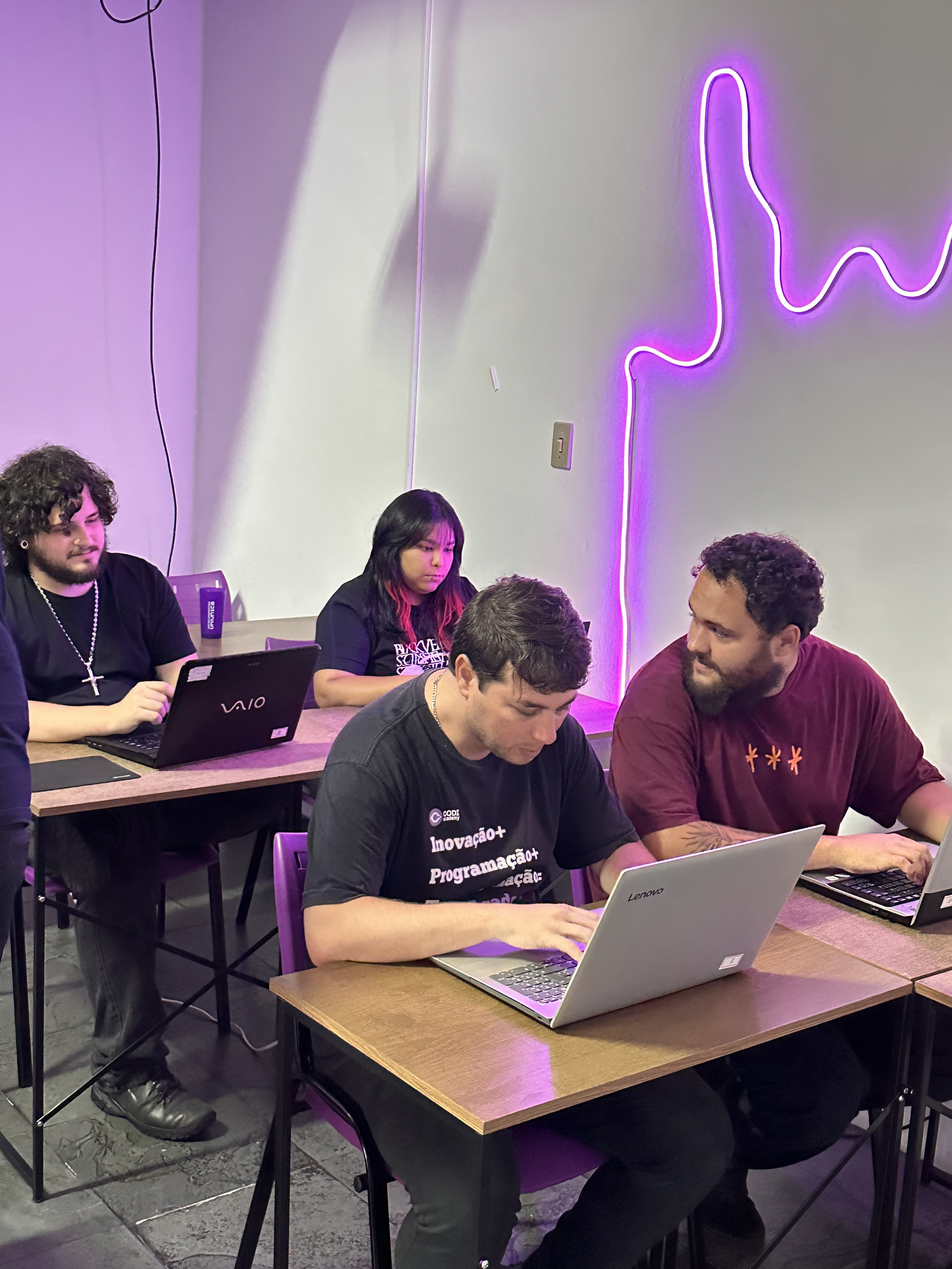
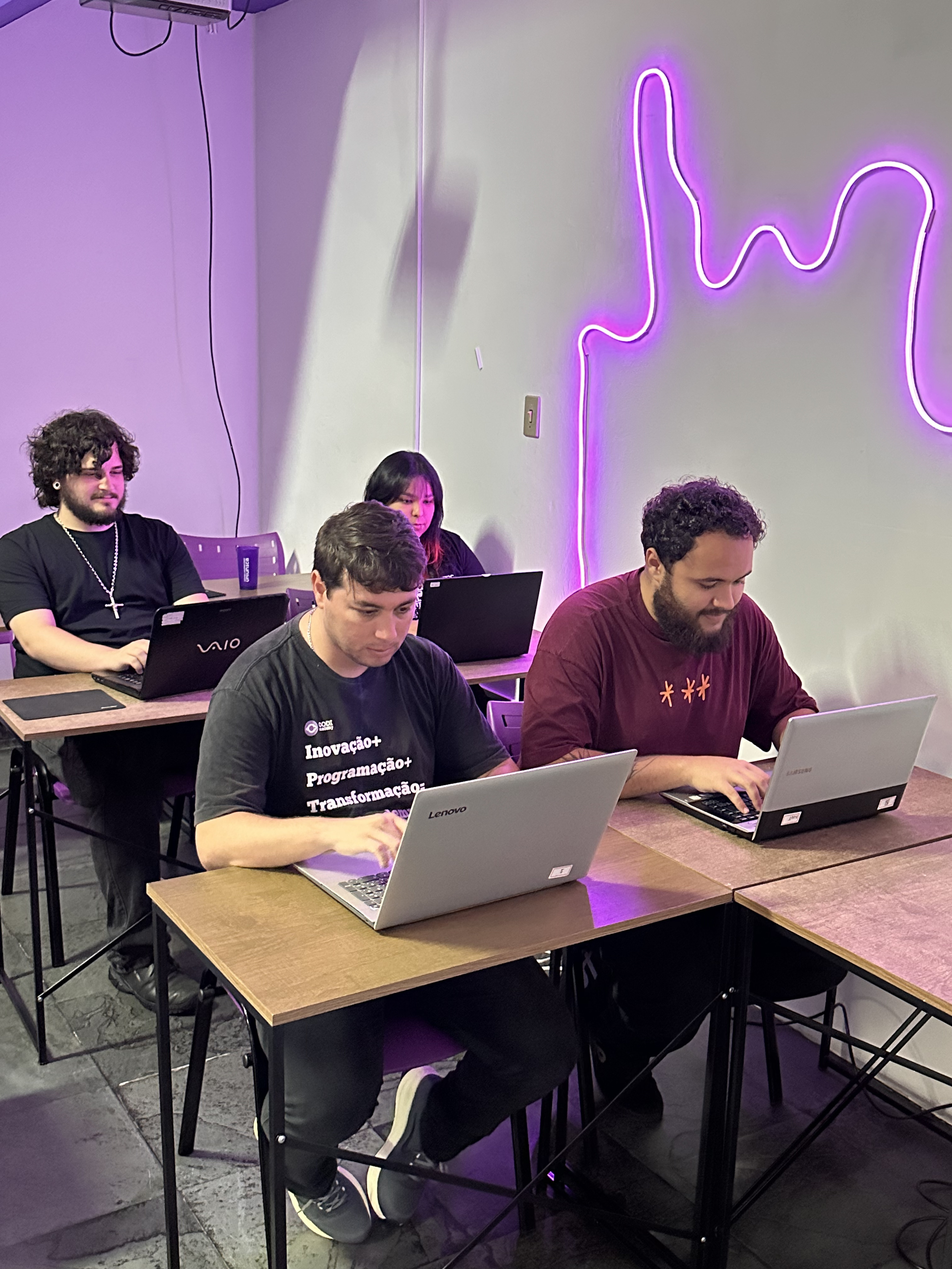
fix: atualizar períodos e turnos dos cursos

diff --git a/src/pages/Enroll.tsx b/src/pages/Enroll.tsx
@@ -10,7 +10,7 @@ import {
   User,
   Zap,
 } from "lucide-react";
-import { useMemo, useState, useEffect } from "react";
+import { useMemo, useState } from "react";
 import AccentLine from "../components/AppComponents/AccentLine";
 
 type Course = {
@@ -36,12 +36,12 @@ const DEFAULT_COURSES: Course[] = [
     accent: "from-fuchsia-500 to-violet-800",
     turmas: [
       {
-        periodo: "Seg–Qua (2h/dia)",
-        turno: ["Noturno"],
+        periodo: "Seg–Qua",
+        turno: ["Noite\n19h~21h"],
       },
       {
-        periodo: "Ter–Qui (2h/dia)",
-        turno: ["Matutino", "Diurno", "Noturno"],
+        periodo: "Ter–Qui",
+        turno: ["Manhã\n10h~12h", "Tarde\n15h~17h", "Noite\n19h~21h"],
       },
       {
         periodo: "Online",
@@ -57,12 +57,12 @@ const DEFAULT_COURSES: Course[] = [
     accent: "from-sky-500 to-cyan-800",
     turmas: [
       {
-        periodo: "Seg–Qua (2h/dia)",
-        turno: ["Noturno"],
+        periodo: "Seg–Qua",
+        turno: ["Noite\n19h~21h"],
       },
       {
-        periodo: "Ter–Qui (2h/dia)",
-        turno: ["Matutino", "Diurno", "Noturno"],
+        periodo: "Ter–Qui",
+        turno: ["Manhã\n10h~12h", "Tarde\n15h~17h", "Noite\n19h~21h"],
       },
       {
         periodo: "Online",
@@ -78,16 +78,16 @@ const DEFAULT_COURSES: Course[] = [
     accent: "from-emerald-500 to-teal-800",
     turmas: [
       {
-        periodo: "Seg–Qua (2h/dia)",
-        turno: ["Noturno"],
+        periodo: "Seg–Qua",
+        turno: ["Noite\n19h~21h"],
       },
       {
-        periodo: "Ter–Qui (2h/dia)",
-        turno: ["Matutino", "Diurno", "Noturno"],
+        periodo: "Ter–Qui",
+        turno: ["Manhã\n10h~12h", "Tarde\n15h~17h", "Noite\n19h~21h"],
       },
       {
-        periodo: "Intensivo Qua (3h/dia)",
-        turno: ["Noturno"],
+        periodo: "Intensivo Qua",
+        turno: ["Noite\n19h~22h"],
       },
       {
         periodo: "Online",
@@ -103,8 +103,8 @@ const DEFAULT_COURSES: Course[] = [
     accent: "from-amber-500 to-orange-600",
     turmas: [
       {
-        periodo: "Intensivo Ter (3h/dia)",
-        turno: ["Noturno"],
+        periodo: "Intensivo Ter",
+        turno: ["Noite\n19h~22h"],
       },
       {
         periodo: "Online",
@@ -120,12 +120,12 @@ const DEFAULT_COURSES: Course[] = [
     accent: "from-purple-400 to-fuchsia-800",
     turmas: [
       {
-        periodo: "Quarta (1h30m/dia)",
-        turno: ["Manhã", "Tarde"],
+        periodo: "Quarta",
+        turno: ["Manhã\n10h~11h30m"],
       },
       {
-        periodo: "Quinta (1h30m/dia)",
-        turno: ["Noite"],
+        periodo: "Quinta",
+        turno: ["Noite\n19h30m~21h"],
       },
       {
         periodo: "Online",
@@ -141,8 +141,8 @@ const DEFAULT_COURSES: Course[] = [
     accent: "from-indigo-500 to-blue-800",
     turmas: [
       {
-        periodo: "Seg–Qua (2h/dia)",
-        turno: ["Tarde"],
+        periodo: "Seg–Qua",
+        turno: ["Tarde\n15h~17h"],
       },
       {
         periodo: "Online",
@@ -199,13 +199,10 @@ export default function Enroll({ courses = DEFAULT_COURSES }: EnrollPageProps) {
     [courses, selectedCourse]
   );
 
-  // when course changes, reset turma/turno
-  useEffect(() => {
-    setSelectedTurmaIdx(null);
-    setSelectedTurno(null);
-  }, [selectedCourse]);
-
-  const promoDiscount = useMemo(() => (payment === "pix" ? 0.05 : 0), [payment]);
+  const promoDiscount = useMemo(
+    () => (payment === "pix" ? 0.05 : 0),
+    [payment]
+  );
   const subtotal = selected?.price ?? 0;
   const discount = Math.round(subtotal * promoDiscount);
   const total = subtotal - discount;
@@ -220,7 +217,7 @@ export default function Enroll({ courses = DEFAULT_COURSES }: EnrollPageProps) {
     if (!phone.trim()) e.phone = "Informe um telefone para contato.";
     if (!accept) e.accept = "É necessário aceitar os termos para prosseguir.";
 
-    // if course selected and it has turmas, ensure a turma is chosen
+    // se o curso tiver turmas, exige turma
     if (
       selected &&
       selected.turmas &&
@@ -230,11 +227,13 @@ export default function Enroll({ courses = DEFAULT_COURSES }: EnrollPageProps) {
       e.turma = "Escolha um período (turma).";
     }
 
-    // if chosen turma has turnos, ensure turno chosen
+    // se a turma selecionada tiver turnos, exige turno
     if (
       selected &&
       selected.turmas &&
       selectedTurmaIdx !== null &&
+      selectedTurmaIdx >= 0 &&
+      selectedTurmaIdx < selected.turmas.length &&
       selected.turmas[selectedTurmaIdx] &&
       selected.turmas[selectedTurmaIdx].turno &&
       selected.turmas[selectedTurmaIdx].turno!.length > 0 &&
@@ -264,10 +263,18 @@ export default function Enroll({ courses = DEFAULT_COURSES }: EnrollPageProps) {
 
   // helpers to display selected period/turno in the summary
   const resumoPeriodo = selected
-    ? selectedTurmaIdx !== null
-      ? selected.turmas?.[selectedTurmaIdx]?.periodo ?? "—"
+    ? selectedTurmaIdx !== null &&
+      selected.turmas &&
+      selectedTurmaIdx >= 0 &&
+      selectedTurmaIdx < selected.turmas.length &&
+      selected.turmas[selectedTurmaIdx]?.periodo
+      ? selected.turmas[selectedTurmaIdx]!.periodo
       : "—"
     : period === "weekday"
+    ? "Seg–Sex"
+    : period === "saturday"
+    ? "Sábados"
+    : "Online";
 
   return (
     <>
@@ -310,7 +317,12 @@ export default function Enroll({ courses = DEFAULT_COURSES }: EnrollPageProps) {
                     <button
                       key={c.id}
                       type="button"
-                      onClick={() => setSelectedCourse(c.id)}
+                      onClick={() => {
+                        setSelectedCourse(c.id);
+                        // reset de turma/turno ao trocar de curso
+                        setSelectedTurmaIdx(null);
+                        setSelectedTurno(null);
+                      }}
                       className={[
                         "group relative text-left overflow-hidden rounded-xl ring-1 ring-white/10 bg-gradient-to-b from-white/5 to-white/[0.03] hover:ring-white/20 transition-shadow",
                         active &&
@@ -368,7 +380,7 @@ export default function Enroll({ courses = DEFAULT_COURSES }: EnrollPageProps) {
             {/* Formulário escuro */}
             <form
               onSubmit={onSubmit}
-              className="rounded-2xl overflow-hidden ring-1 ring-white/10 bg-gradient-to-b from-white/5 to-white/[0.03]"
+              className="rounded-2xl overflow-visible ring-1 ring-white/10 bg-gradient-to-b from-white/5 to-white/[0.03]"
             >
               <div className="px-6 py-5 border-b border-white/10 flex items-center gap-3">
                 <User className="w-5 h-5" />
@@ -484,7 +496,7 @@ export default function Enroll({ courses = DEFAULT_COURSES }: EnrollPageProps) {
                     Período
                   </label>
 
-                  {/* If a course with turmas is selected, show turma buttons dynamically */}
+                  {/* Se curso com turmas for selecionado, mostra botões dinâmicos */}
                   {selected && selected.turmas ? (
                     <div className="mt-2 space-y-2">
                       <div className="grid grid-cols-1 sm:grid-cols-2 gap-2">
@@ -496,7 +508,7 @@ export default function Enroll({ courses = DEFAULT_COURSES }: EnrollPageProps) {
                               type="button"
                               onClick={() => {
                                 setSelectedTurmaIdx(idx);
-                                // reset turno when changing turma
+                                // reset turno ao trocar de turma
                                 setSelectedTurno(null);
                               }}
                               className={`rounded-lg px-3 py-2 text-sm ring-1 ${
@@ -511,31 +523,60 @@ export default function Enroll({ courses = DEFAULT_COURSES }: EnrollPageProps) {
                         })}
                       </div>
 
-                      {/* Show turnos for the selected turma (if any) */}
+                      {/* Turnos da turma selecionada (se houver) */}
                       {selectedTurmaIdx !== null &&
-                        selected.turmas[selectedTurmaIdx].turno && (
+                        selected.turmas &&
+                        selectedTurmaIdx >= 0 &&
+                        selectedTurmaIdx < selected.turmas.length &&
+                        selected.turmas[selectedTurmaIdx] && (
                           <div className="mt-2">
-                            <label className="text-xs text-white/70">
-                              Turno
-                            </label>
-                            <div className="mt-1 grid grid-cols-3 gap-2">
-                              {selected.turmas[selectedTurmaIdx].turno!.map(
-                                (tr) => (
-                                  <button
-                                    key={tr}
-                                    type="button"
-                                    onClick={() => setSelectedTurno(tr)}
-                                    className={`rounded-lg px-3 py-2 text-sm ring-1 ${
-                                      selectedTurno === tr
-                                        ? "bg-[#A243D2]/15 text-[#A243D2] ring-[#A243D2]/30"
-                                        : "ring-white/10 hover:bg-white/5"
-                                    }`}
-                                  >
-                                    {tr}
-                                  </button>
-                                )
-                              )}
-                            </div>
+                            {/* Se o período for Online, mostrar mensagem de monitoria */}
+                            {selected.turmas[selectedTurmaIdx].periodo
+                              .toLowerCase()
+                              .includes("online") ? (
+                              <p className="mt-4 text-sm text-white/70 whitespace-nowrap">
+                                Os alunos poderam ser atendidos nos horarios de
+                                monitoria online. 
+                                <br />
+                                Segunda de 19h às 21h e Sexta de 09h às 11h.
+                              </p>
+                            ) : (
+                              <>
+                                <label className="text-xs text-white/70">
+                                  Turno
+                                </label>
+                                <div className="mt-1 flex gap-2 overflow-visible flex-nowrap">
+                                  {selected.turmas[selectedTurmaIdx].turno!.map(
+                                    (tr) => (
+                                      <button
+                                        key={tr}
+                                        type="button"
+                                        onClick={() => setSelectedTurno(tr)}
+                                        className={`flex-shrink-0 inline-flex flex-col items-center justify-center rounded-lg px-3 py-2 text-sm ring-1 text-center relative z-20 ${
+                                          selectedTurno === tr
+                                            ? "bg-[#A243D2]/15 text-[#A243D2] ring-[#A243D2]/30"
+                                            : "ring-white/10 hover:bg-white/5"
+                                        }`}
+                                      >
+                                        {tr.split("\n").map((line, idx) => (
+                                          <span
+                                            key={idx}
+                                            className={
+                                              idx === 0
+                                                ? "block"
+                                                : "block text-xs text-white/70"
+                                            }
+                                          >
+                                            {line}
+                                          </span>
+                                        ))}
+                                      </button>
+                                    )
+                                  )}
+                                </div>
+                              </>
+                            )}
+
                             {errors.turno && (
                               <p className="mt-1 text-sm text-red-400">
                                 {errors.turno}
@@ -551,7 +592,7 @@ export default function Enroll({ courses = DEFAULT_COURSES }: EnrollPageProps) {
                       )}
                     </div>
                   ) : (
-                    // fallback to original static period buttons when no course selected
+                    // fallback para período estático quando não há curso selecionado
                     <div className="mt-2 grid grid-cols-3 gap-2">
                       <button
                         type="button"
@@ -776,7 +817,7 @@ export default function Enroll({ courses = DEFAULT_COURSES }: EnrollPageProps) {
                   <li className="flex items-start gap-2">
                     <Check className="w-4 h-4 text-emerald-400 mt-0.5" />
                     <span>
-                      Escolha PIX para garantir 10% de desconto imediato.
+                      Escolha PIX para garantir 5% de desconto imediato.
                     </span>
                   </li>
                   <li className="flex items-start gap-2">
